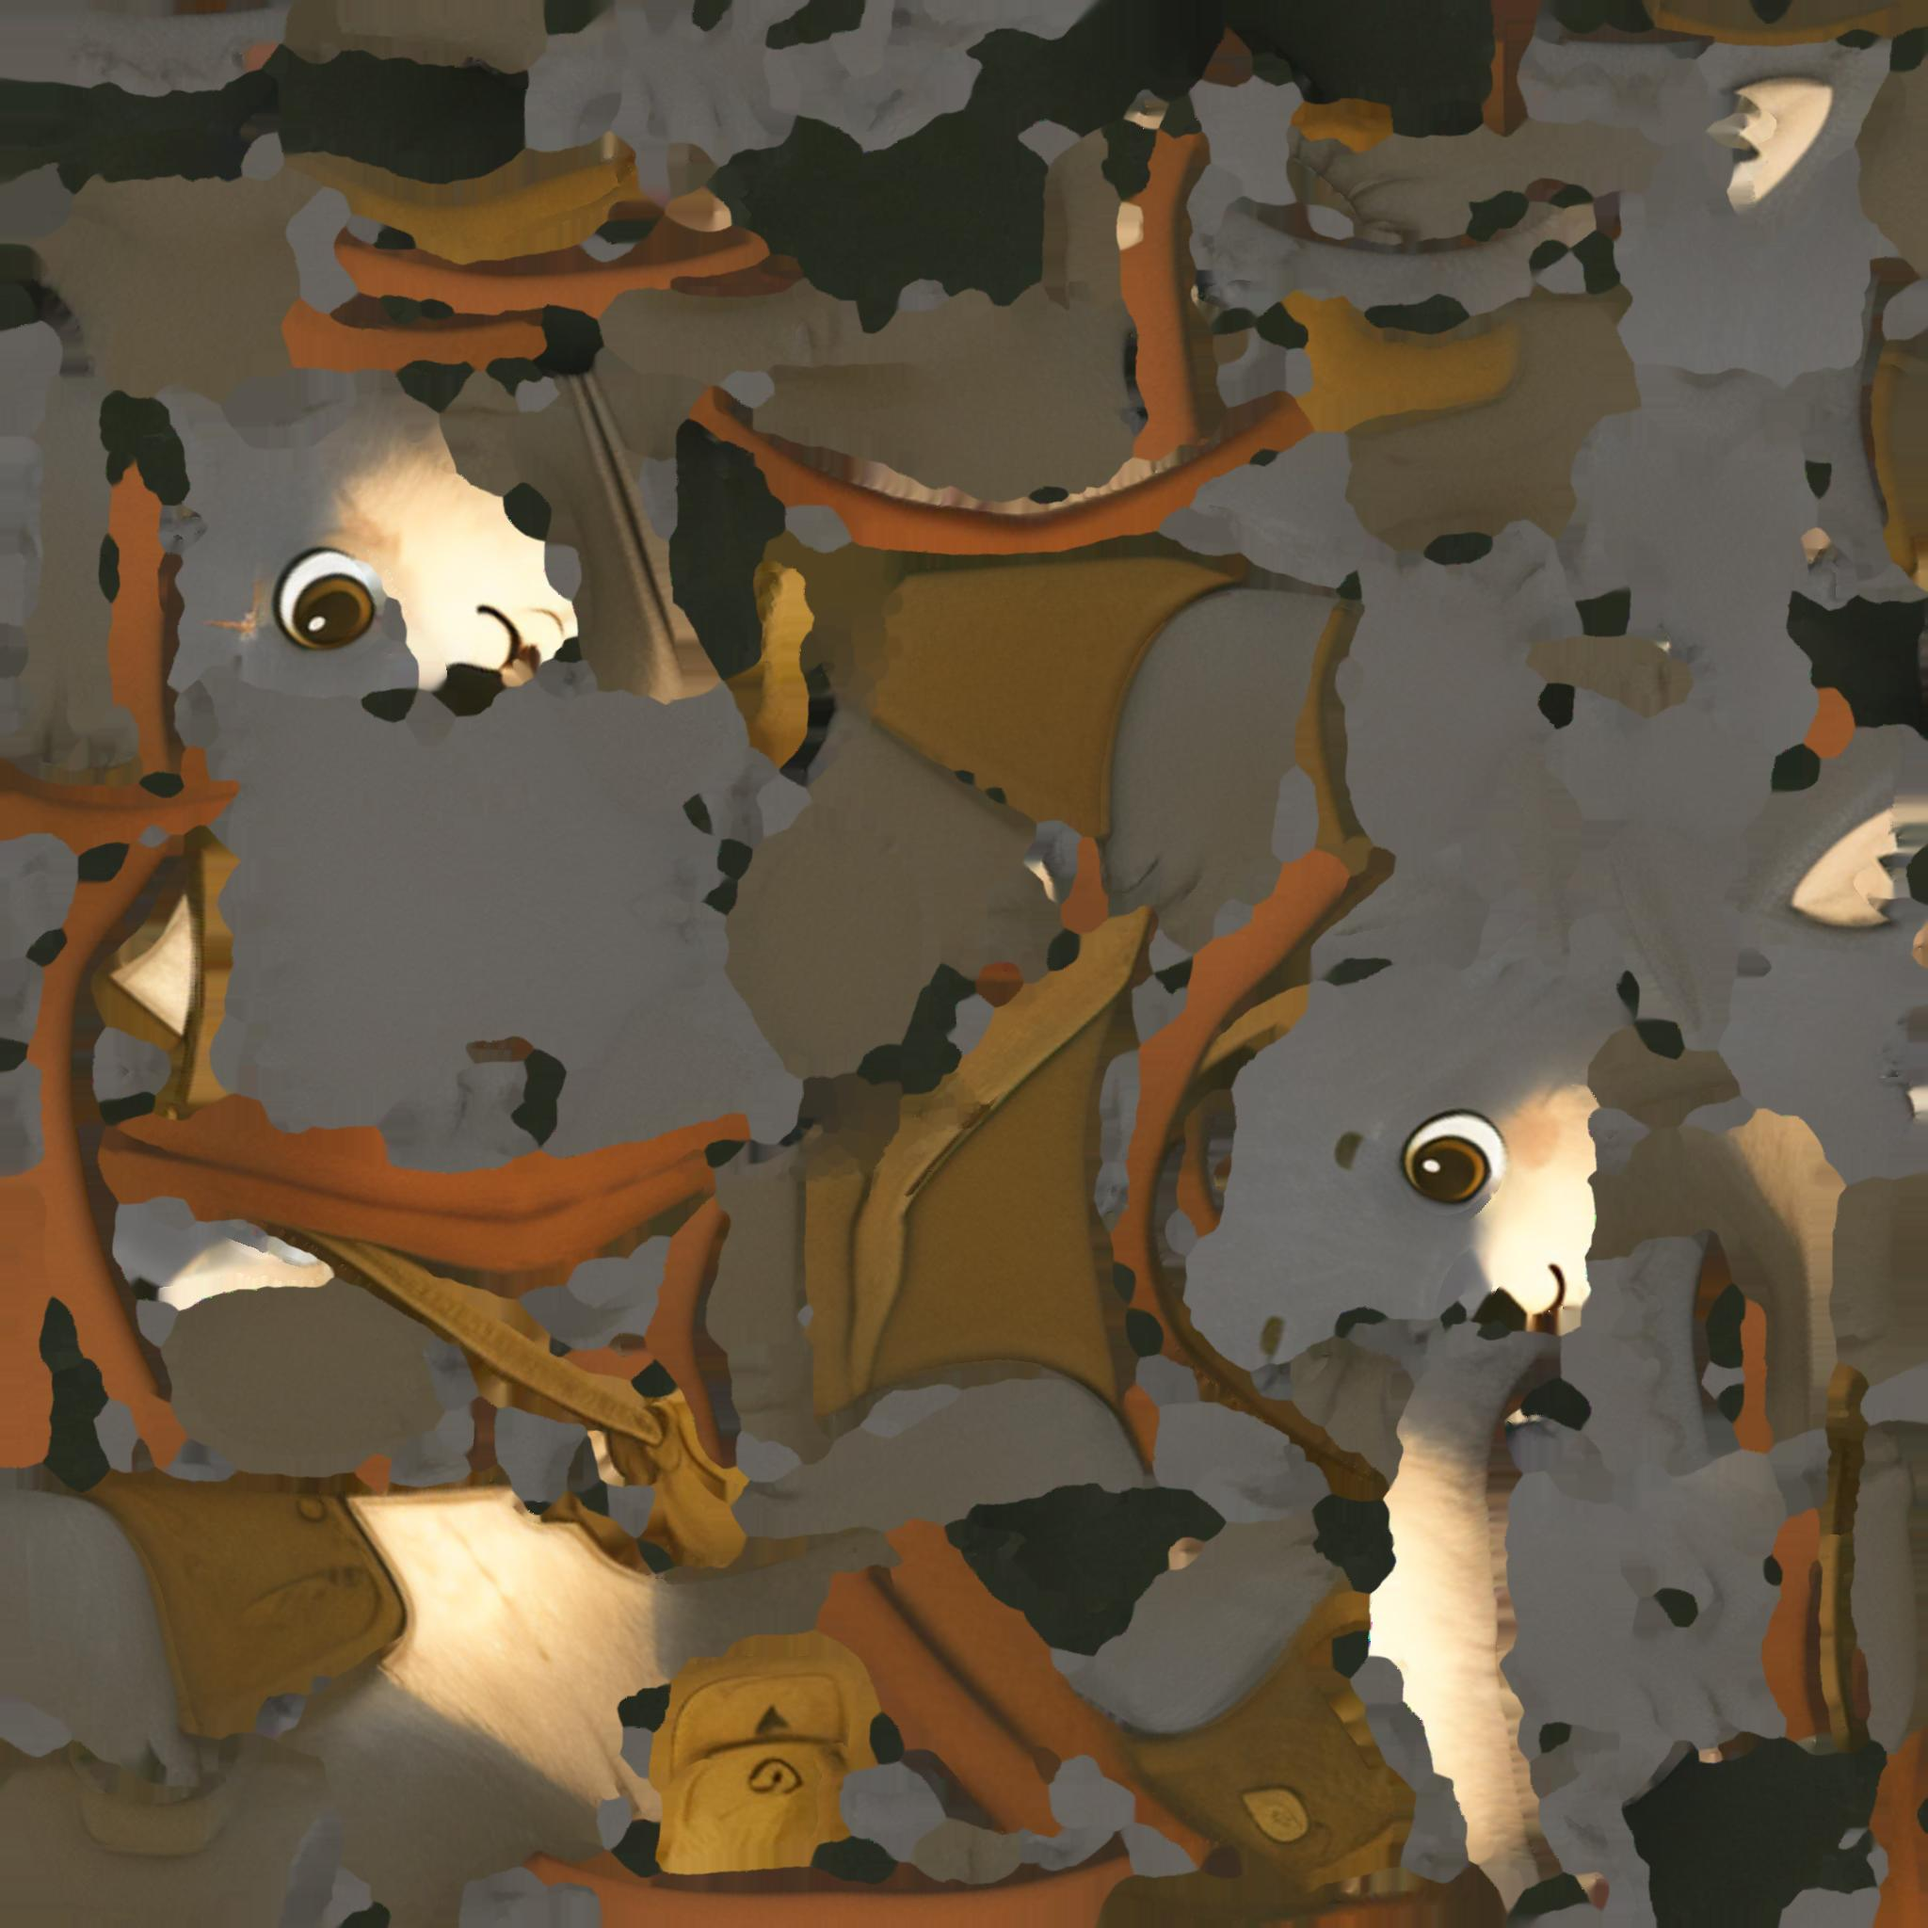
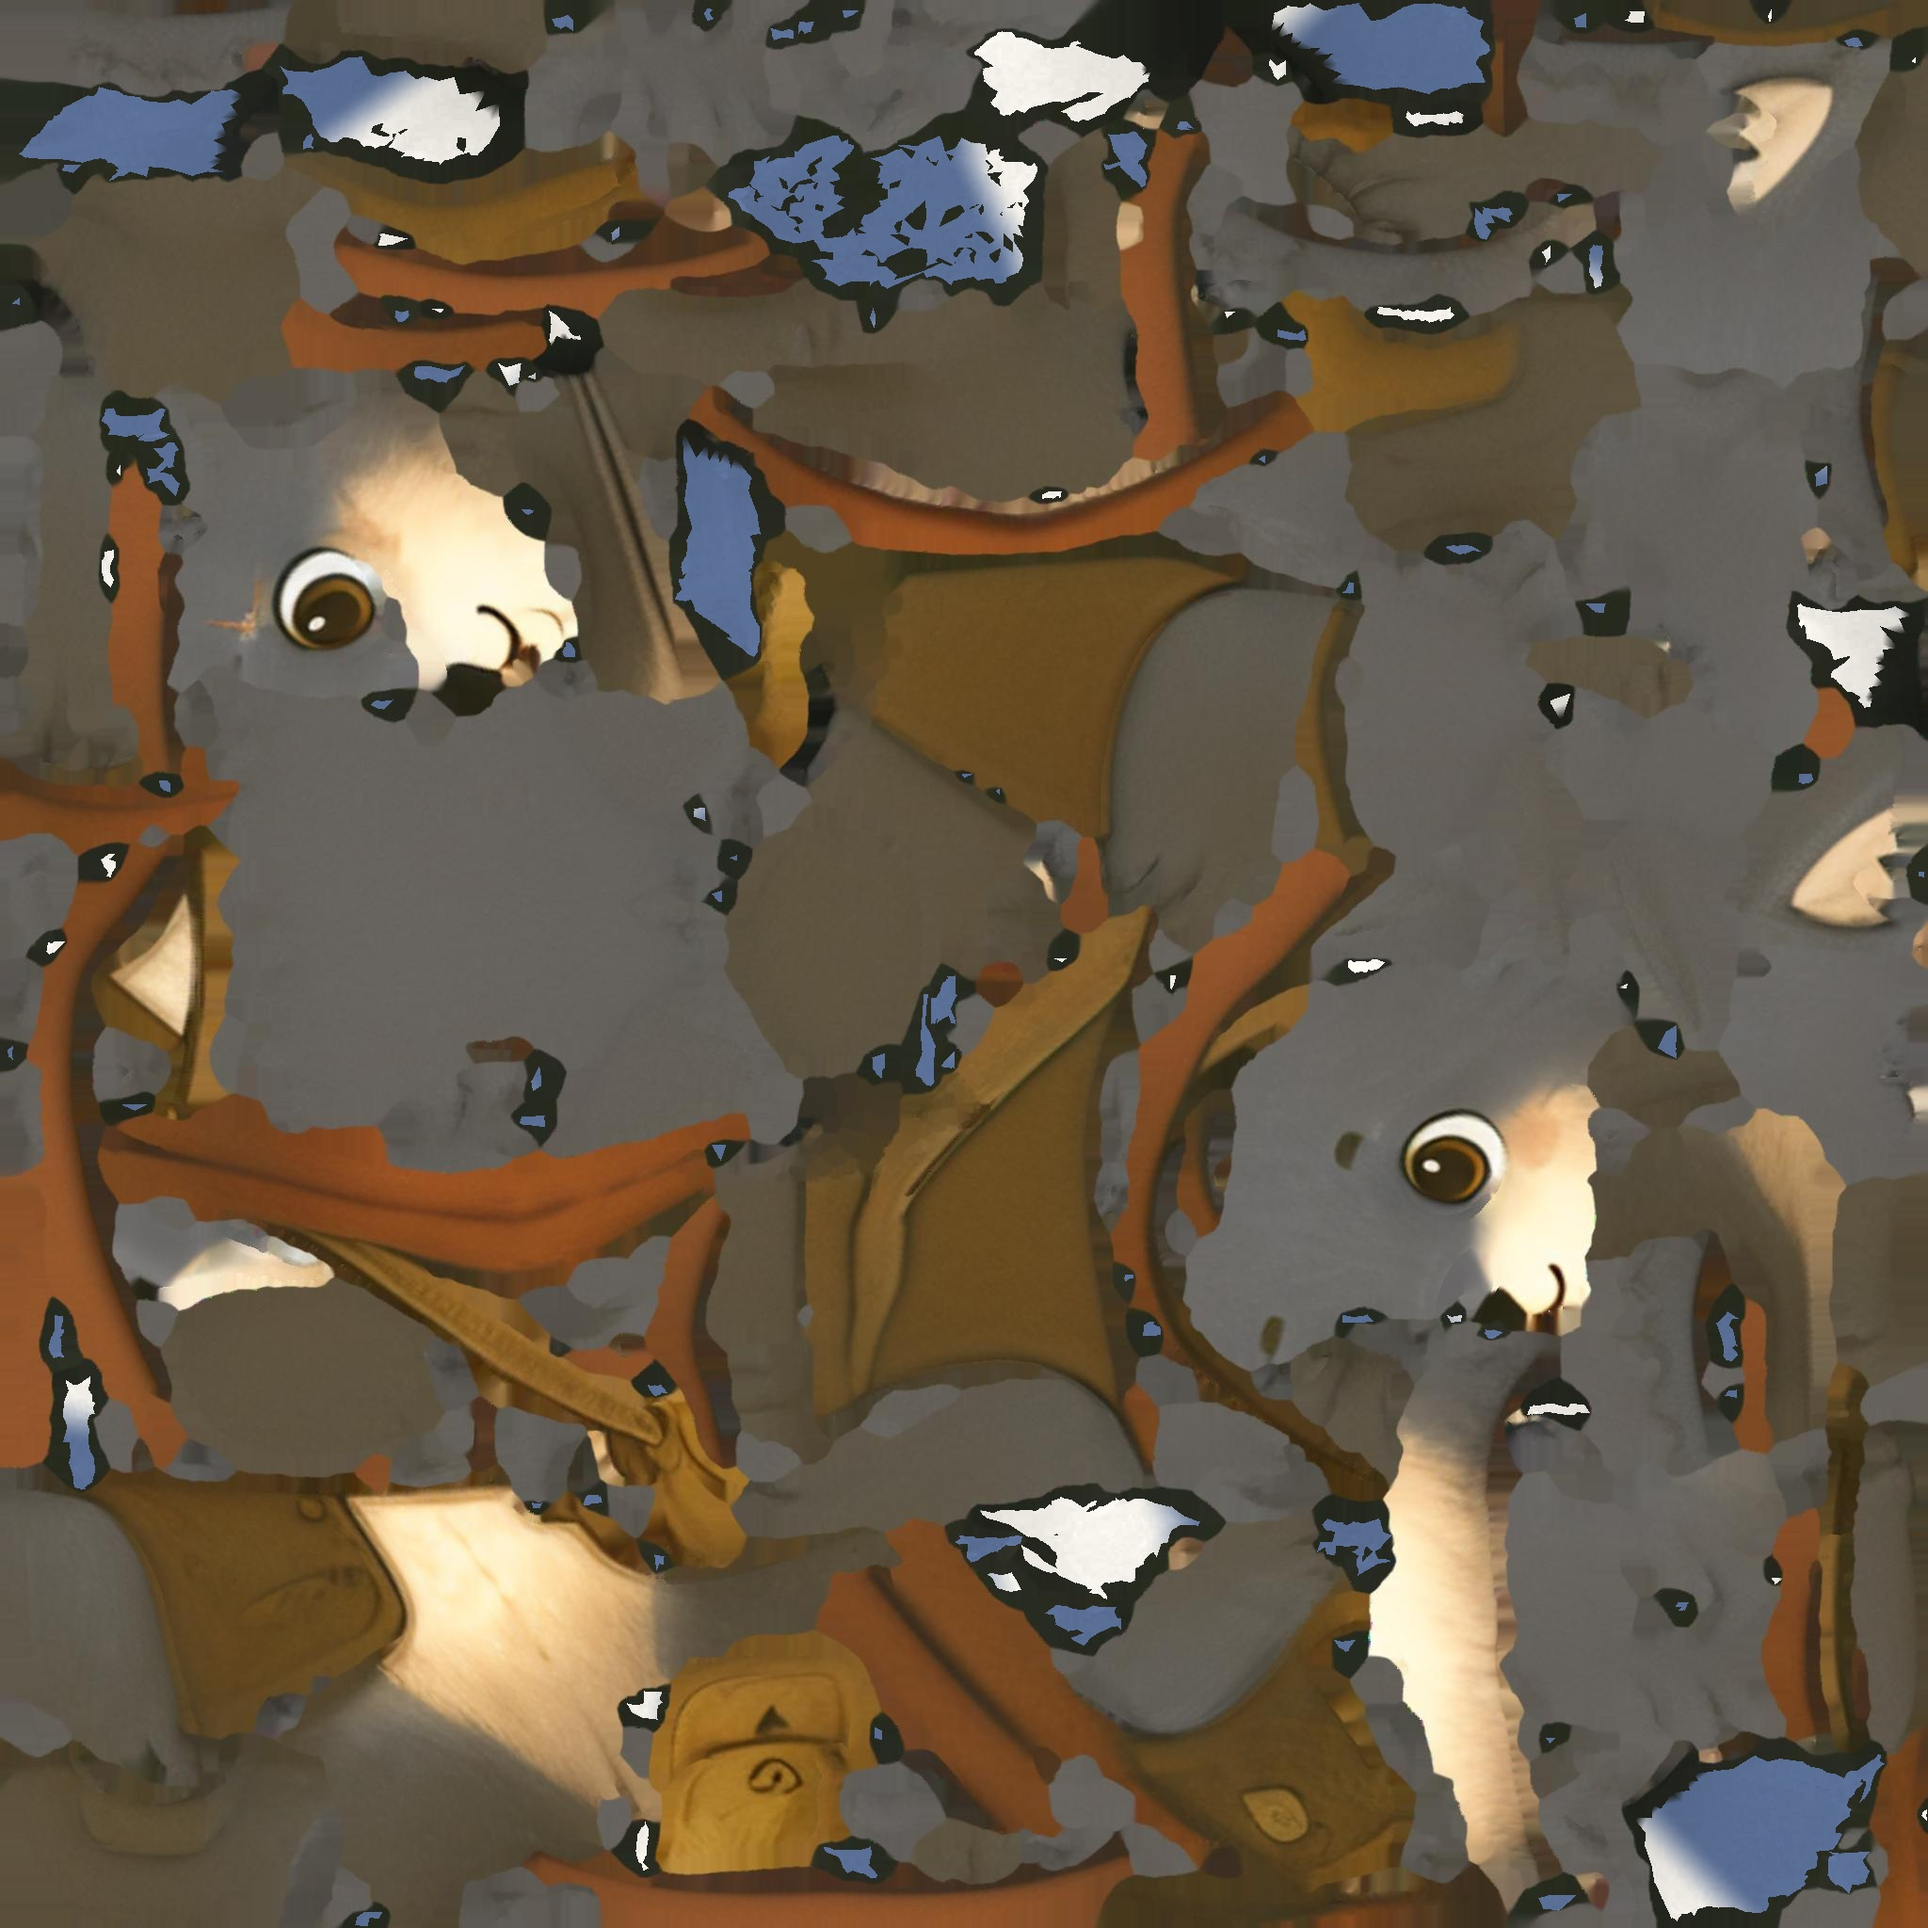
派派狼的尾巴改成藍色、尾端白色（照角色設定圖，tools/recolor_wolf_tail.gd 重畫貼圖）；背景音樂播放器、⋯ 背景音樂開關、MusicGen 生成腳本（音樂檔之後加）

diff --git a/tools/music/gen_music.py b/tools/music/gen_music.py
@@ -1,0 +1,100 @@
+"""用 Meta MusicGen 生成遊戲背景音樂，做成可以無縫循環的 .ogg。
+
+環境：D:/ai/musicgen（python -m venv；torch cu126、transformers、soundfile）
+用法：D:/ai/musicgen/Scripts/python tools/music/gen_music.py [曲名 ...] [--model medium] [--takes 2]
+輸出：D:/ai/musicgen_out/<曲名>_<n>.ogg（候選，給人聽）；第 1 個候選複製到 audio/music/<曲名>.ogg
+
+模型權重授權：CC-BY-NC 4.0（非商業用途），製作名單要註明 MusicGen by Meta。
+"""
+import argparse
+import os
+import shutil
+import sys
+
+os.environ.setdefault("HF_HOME", "D:/ai/hf")
+
+import numpy as np
+import soundfile as sf
+import torch
+from transformers import AutoProcessor, MusicgenForConditionalGeneration
+
+# 曲名: (提示詞, 秒數, 是否循環)
+TRACKS = {
+    "home": ("cozy storybook forest cottage background music, gentle fingerpicked acoustic guitar, "
+             "soft glockenspiel and light wooden flute, warm, peaceful and relaxing, slow 80 bpm, "
+             "children's picture book, no drums, instrumental", 30, True),
+    "town": ("cheerful small village market music, ukulele and soft accordion, light pizzicato strings, "
+             "gentle hand percussion, bright and friendly, 100 bpm, cozy game soundtrack, instrumental", 30, True),
+    "task": ("calm focused lofi music for studying, soft felt piano, warm pads, gentle brushed beat, "
+             "relaxing cozy game, 72 bpm, instrumental", 30, True),
+    "clear": ("short happy celebration jingle, xylophone and bells, cheerful little fanfare, "
+              "cozy children's game, instrumental", 5, False),
+}
+
+ROOT = os.path.dirname(os.path.dirname(os.path.dirname(os.path.abspath(__file__))))
+OUT = "D:/ai/musicgen_out"
+GAME = os.path.join(ROOT, "audio", "music")
+
+
+def make_loop(a: np.ndarray, sr: int, fade_s: float = 3.0) -> np.ndarray:
+    """尾巴交叉淡入到開頭：播完接回開頭聽不出接縫。"""
+    f = int(sr * fade_s)
+    body = a[: len(a) - f].copy()
+    t = np.linspace(0.0, 1.0, f)
+    fin = np.sin(t * np.pi / 2) ** 2
+    body[:f] = a[:f] * fin + a[len(a) - f:] * (1.0 - fin)
+    return body
+
+
+def finish(a: np.ndarray, sr: int, loop: bool) -> np.ndarray:
+    a = a - a.mean()
+    if loop:
+        a = make_loop(a, sr)
+    else:
+        n = int(sr * 0.8)
+        a[-n:] *= np.linspace(1.0, 0.0, n) ** 2
+    # 音量：RMS 對齊，峰值不超過 -1 dB
+    rms = np.sqrt(np.mean(a ** 2)) + 1e-9
+    a = a * (0.12 / rms)
+    peak = np.abs(a).max()
+    if peak > 0.89:
+        a = a * (0.89 / peak)
+    return a.astype(np.float32)
+
+
+def main() -> None:
+    ap = argparse.ArgumentParser()
+    ap.add_argument("names", nargs="*")
+    ap.add_argument("--model", default="medium")
+    ap.add_argument("--takes", type=int, default=2)
+    args = ap.parse_args()
+    names = args.names or list(TRACKS)
+    os.makedirs(OUT, exist_ok=True)
+    os.makedirs(GAME, exist_ok=True)
+    mid = f"facebook/musicgen-{args.model}"
+    dev = "cuda" if torch.cuda.is_available() else "cpu"
+    dtype = torch.float16 if dev == "cuda" else torch.float32
+    print("loading", mid, dev, flush=True)
+    proc = AutoProcessor.from_pretrained(mid)
+    model = MusicgenForConditionalGeneration.from_pretrained(mid, torch_dtype=dtype).to(dev)
+    sr = model.config.audio_encoder.sampling_rate
+    for name in names:
+        prompt, secs, loop = TRACKS[name]
+        extra = 3 if loop else 0
+        tokens = int((secs + extra) * 50)
+        for k in range(1, args.takes + 1):
+            torch.manual_seed(1000 + k * 17 + sum(map(ord, name)))
+            inp = proc(text=[prompt], padding=True, return_tensors="pt").to(dev)
+            with torch.no_grad():
+                out = model.generate(**inp, do_sample=True, guidance_scale=3.0, max_new_tokens=tokens)
+            a = out[0, 0].float().cpu().numpy()
+            a = finish(a, sr, loop)
+            path = f"{OUT}/{name}_{k}.ogg"
+            sf.write(path, a, sr, format="OGG", subtype="VORBIS")
+            print("wrote", path, round(len(a) / sr, 1), "s", flush=True)
+            if k == 1:
+                shutil.copy(path, os.path.join(GAME, f"{name}.ogg"))
+
+
+if __name__ == "__main__":
+    sys.exit(main())

diff --git a/README.md b/README.md
@@ -79,6 +79,7 @@ data/furniture.json 家具定義；data/home.json 新玩家的家
 
 - 正式 3D 模型：派派鼠、派派兔、派派狼由混元 3D（Hunyuan3D-2）生成，經 `tools/blender/rig_hy3d.py` 修正並上骨架（`models/gopher/gopher_rigged.glb`、`models/rabbit/rabbit_rigged.glb`、`models/wolf/wolf_rigged.glb`；用法 `blender -b -P rig_hy3d.py -- kenney.glb 原檔.glb 輸出.glb gopher|rabbit|wolf`）、小椅子（`models/chair.glb`，陽光小椅子用 `model_tint` 染黃）。其餘家具仍是程式拼的佔位模型；Thrixel 免費額度剩 13 方塊，雕塑次數 2026-12-01 重置。換模型：把 GLB 放進 `models/`，在 `furniture.json` 填 `model`（可選 `model_fill` `model_yaw` `model_tint`），會自動縮放貼地並加描邊。
 - Kenney 模型（CC0，免費可商用，不需標註；授權檔在 `models/kenney/License-*.txt`）：Furniture Kit 的桌子、圓桌、書櫃、盆栽、沙發、邊桌、長椅、衣帽架、復古電視、收音機、書、小盆栽；Nature Kit 與 Fantasy Town Kit 的樹、花、灌木、蘑菇、石子路、柵欄、路燈、噴水池、攤位、推車（屋外小鎮景色，見 `room_view.gd` 的 `OUTDOOR`）。載入時會自動校正 Kenney 偏白的顏色並套繪本色票（`models.gd` 的 `KENNEY_PALETTE`）。
+- 背景音樂（`audio/music/`）：用 Meta **MusicGen**（facebook/musicgen，模型權重 CC-BY-NC 4.0，限非商業用途）生成，再做成可以無縫循環的 .ogg；生成腳本 `tools/music/gen_music.py`，環境在 `D:/ai/musicgen`。home＝樹屋、town＝派森小鎮、task＝寫程式任務、clear＝過關小樂句；「⋯ → 背景音樂」可以關掉。
 - 管理員的任務設計器（第二版）。
 
 ## 派森小鎮任務書與教學進度
